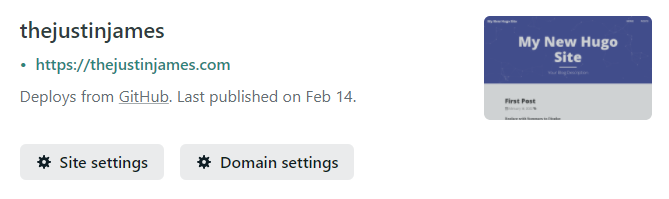
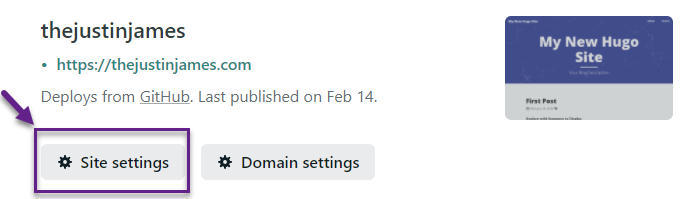
add links to preview/next for hugo post.  add netlify drawer images more content

diff --git a/content/posts/draft/2022/02/021622-hugo-deploy-to-netlify-preview-site.md b/content/posts/draft/2022/02/021622-hugo-deploy-to-netlify-preview-site.md
@@ -5,45 +5,81 @@ published: false
 title: "Deploy Preview Release of Site Using Netlify"
 url: '/blog-preview-with-netlify'
 ---
-In our previous post on Deploying Your Hugo  Site Using Netlify, we set up Netlify to automatically deploy our site everytime we pushed a commit to our GitHub repository and set up a custom domain to point to the site.
+In our previous post on [Deploying Your Hugo Site Using Netlify](/deploy-hugo-netlify), we set up Netlify to automatically deploy our site every time we pushed a commit to our GitHub repository. As well, we set up a custom domain for our site.
 
-In this post, we are going to look at the preview deploy feature of Netlify to build and deploy to a preview/staging site when we create or update a pull request.
+In this post, we will look at the preview deploy feature of Netlify to build and deploy to a preview/staging site when we create or update a pull request.
 
-Creating a preview of your site using Netlify is setup out of the box to build everytime you create our update a pull request.
+When you create a new Netlify site, a preview site is set up out of the box to build every time you create or update a pull request. The build configuration will match the configuration of your production site. It is fantastic that Netlify set this up for us. However, to take full advantage of having a preview site, it would be helpful to include future and draft posts to make sure they look right before publishing the post to production. It would also be nice to be able to test new versions of Hugo in a preview environment before updating production.
 
+<!--more-->
 
-![site settings button](/images/hugo/deploy-netlify-preview/netlify-preview-step-1.png)
+Before we dive into how to have different configurations for your preview site, let us verify that you indeed have the preview builds turned on.
 
-![build & deploy section on sidebar](/images/hugo/deploy-netlify-preview/netlify-preview-step-2.png)
+1. Login to Netlify
+1. Under the Sites section, click on your site
+1. Under your site, click on the site settings
 
-![deploy previews section under build & deploy](/images/hugo/deploy-netlify-preview/netlify-preview-step-3.png)
+    ![site settings button](/images/hugo/deploy-netlify-preview/netlify-preview-step-1.png)
 
-![deploy previews settings](/images/hugo/deploy-netlify-preview/netlify-preview-step-4.png)
+1. On the side menu, select Build & Deploy and then Continuous Deployment
+
+    ![build & deploy section on sidebar](/images/hugo/deploy-netlify-preview/netlify-preview-step-2.png)
+
+1. Scroll down to the **Deploy Previews** section and click on **Edit settings**
+
+    ![deploy previews section under build & deploy](/images/hugo/deploy-netlify-preview/netlify-preview-step-3.png)
+
+1. Under the Deploy Previews settings, you should see that it is set for "Any pull request against your production branch / branch deploy branches" and the Netlify Drawer is set to Enabled (more on Netlify Drawer later in this post)
+
+    ![deploy previews settings](/images/hugo/deploy-netlify-preview/netlify-preview-step-4.png)
+
+1. Click Save on the Deploy Previews settings
 
 ## Configure Netlify Builds
 
-```toml
-# This will be your default build command
-[build]
-publish = "public"
-command = "echo 'default context'"
+Now that we have confirmed that our preview builds are enabled, let's look at how to have different build settings for production vs. preview.
 
-# This will be your production build
-[context.production]
-command = "hugo --config config.toml,config-prod.toml --gc --minify"
+To have different settings, we will create a file in the root of our site named netlify.toml. The netlify.toml file will set the build command and hugo version for each environment.
 
-[context.production.environment]
-HUGO_VERSION = "0.92.1"
-HUGO_ENV = "production"
-HUGO_ENABLEGITINFO = "true"
+1. First in the netlify.toml file, we need to add the configuration to set the default publish directory, the build command, and the hugo version to use.
 
-# This will be your preview build
-[context.deploy-preview]
-command = "hugo --config config.toml,config-prod.toml --buildFuture --buildDrafts --gc --minify -b $DEPLOY_PRIME_URL"
+    ```toml
+    # This will be your default build command
+    [build]
+    publish = "public"
+    command = "hugo --gc --minify"
 
-[context.deploy-preview.environment]
-HUGO_VERSION = "0.92.1"
+    [build.environment]
+    HUGO_VERSION = "0.92.1"
+    HUGO_ENV = "production"
+    HUGO_ENABLEGITINFO = "true"
+    ```
 
-[context.next.environment]
-HUGO_ENABLEGITINFO = "true"
-```
+1. Now, let's set our preview deployment to have a different build command that will build future posts, draft posts, and update the baseUrl to our preview url so that any links that reference the baseURL continue to work.
+
+    ```toml
+    # This will be your preview build
+    [context.deploy-preview]
+    command = "hugo --config config.toml,config-prod.toml --buildFuture --buildDrafts --gc --minify -b $DEPLOY_PRIME_URL"
+    ```
+
+1. We can also set different environment variables and override the default ones
+
+    ```toml
+    [context.deploy-preview.environment]
+    HUGO_VERSION = "0.92.1"
+   ```
+
+Now our production deployment will only include published posts, while our preview deployment will include future and draft posts.
+
+The last thing to look at is what is the Netlify Drawer option that we saw earlier.
+
+![Netlify bar in preview](/images/hugo/deploy-netlify-preview/netlify-preview-netlify-bar.png)
+
+![Netlify sidebar integrations in preview](/images/hugo/deploy-netlify-preview/netlify-preview-integrations.png)
+
+![Netlify activity section in sidebar in preview](/images/hugo/deploy-netlify-preview/netlify-preview-activity.png)
+
+![Netlify new issue section in sidebar in preview](/images/hugo/deploy-netlify-preview/netlify-preview-new-issue.png)
+
+In our next post on Hugo, we will look at how you can create a staging site that matches the configuration of our production deployment.

diff --git a/content/posts/2022/021422-hugo-get-started.md b/content/posts/2022/021422-hugo-get-started.md
@@ -134,4 +134,4 @@ We are now ready to see what our side looks like and start up the built-in Hugo 
 
 1. Open your browser and navigate to [http://localhost:1313](http://localhost:1313)
 
-Your blog is now up and running with your first post.  In the [next post](/deploy-hugo-netlify) in the series, we will take a look at how to deploy our site using the free version of Netlify so that every time we push commits to our GitHub repository, our site will update itself.
+Your blog is now up and running with your first post.  In our [next post on Hugo](/deploy-hugo-netlify), we will take a look at how to deploy our site using the free version of Netlify so that every time we push commits to our GitHub repository, our site will update itself.

diff --git a/content/posts/2022/021522-hugo-deploy-to-netlify.md b/content/posts/2022/021522-hugo-deploy-to-netlify.md
@@ -125,4 +125,4 @@ You will see the HTTPS section at the bottom of the domain settings.
 
 Your site is now deployed with a custom domain that will be re-built and re-deployed with each push to your Git repository.
 
-In our next post on Hugo, we will set up a preview site that will be deployed every time a pull request is created or updated. This will allow you to test out changes before they go live in production.
+In our [next post on Hugo](/blog-preview-with-netlify), we will set up a preview site that will be deployed every time a pull request is created or updated. This will allow you to test out changes before they go live in production.
